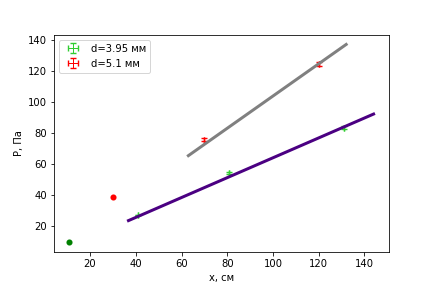
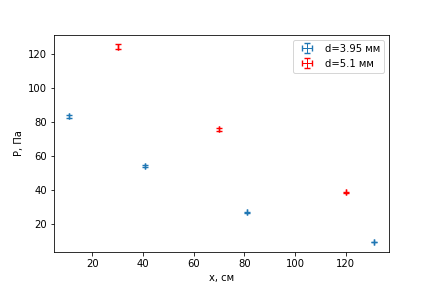
Add files via upload

diff --git a/1.3.3 Вязкость воздуха/Laba.py b/1.3.3 Вязкость воздуха/Laba.py
@@ -177,12 +177,11 @@ def make_delta():
     data['d'] *= 10**(-3)
     x = data['l']
     y = data['p']
-    k, b, sigma = make_graffic(x[:3], y[:3], xlabel='x, cм', ylabel='P, Па', caption_point='d=3.95 мм',
-                 xerr=0, yerr=0.01*y[:3], b=0)
-    plt.scatter(x[3], y[3], linewidth=0.08, color='green')
-    k, b, sigma = make_graffic(x[5:], y[5:], xlabel='x, cм', ylabel='P, Па', caption_point='d=5.1 мм',
-                 xerr=0, yerr=0.01*y[5:], b=0, color=['red', 'grey'])
-    plt.scatter(x[4], y[4], linewidth=0.08, color='red')
+    make_point_grafic(x[:4], y[:4], xlabel='x, cм', ylabel='P, Па', caption='d=3.95 мм',
+                 xerr=0, yerr=0.01*y[:4])
+    make_point_grafic(x[4:], y[4:], xlabel='x, cм', ylabel='P, Па', caption='d=5.1 мм',
+                 xerr=0, yerr=0.01*y[4:], color='red')
+    plt.legend()
 
 def make_q():
     data = make_dic('Q=const.csv')
